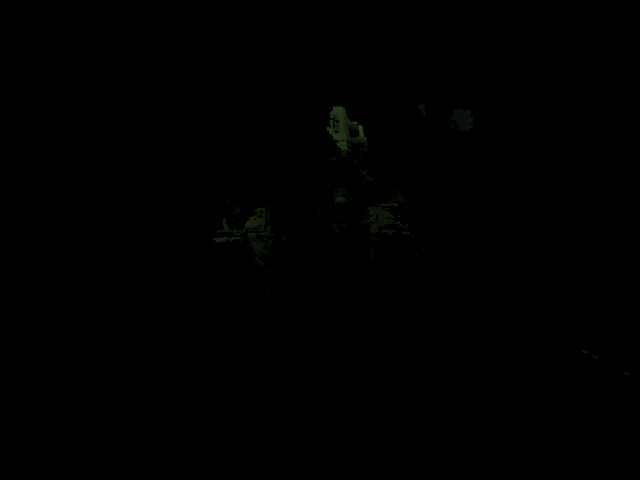
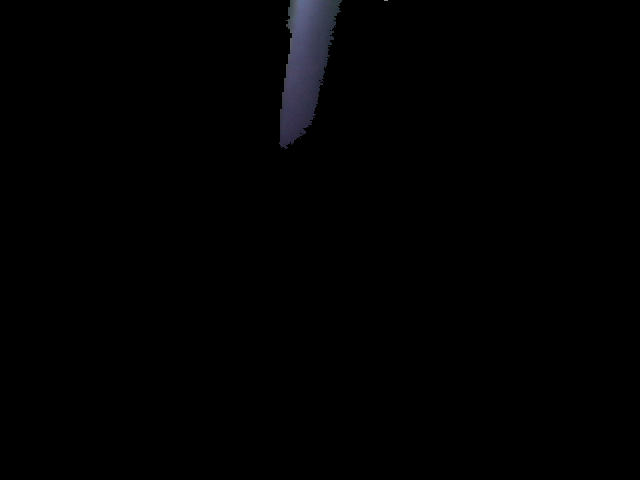
new color calibration

Changed region(s): [[0.4375, 0.0, 0.5938, 0.3125], [0.3438, 0.4375, 0.4375, 0.5]]

diff --git a/image_pipeline.py b/image_pipeline.py
@@ -3,6 +3,28 @@ import numpy as np
 import cv2
 from collections import OrderedDict
 
+a = 0
+b = 0
+c = 0
+d = 0
+e = 0
+f = 0
+def change_color_one(x):
+    global a
+    a = x
+
+def change_color_two(x):
+    global b
+    b = x
+
+def change_color_three(x):
+    global c
+    c = x
+
+def change_color_four(x):
+    global d
+    d = x
+
 def get_image():
     # Create a pipeline
     pipeline = rs.pipeline()
@@ -37,16 +59,14 @@ def get_image():
     else:
         config.enable_stream(rs.stream.color, 640, 480, rs.format.bgr8, 30)
 
+
     # Start streaming
     profile = pipeline.start(config)
-    pro = profile.get_stream(rs.stream.color)
+    pro = profile.get_stream(rs.stream.color)       
     intrinsic_param = pro.as_video_stream_profile().get_intrinsics()
 
-    # Getting the depth sensor's depth scale (see rs-align example for explanation)
     depth_sensor = profile.get_device().first_depth_sensor()
     depth_scale = depth_sensor.get_depth_scale()
-    print("Depth Scale is: " , depth_scale)
-
     # We will be removing the background of objects more than
     #  clipping_distance_in_meters meters away
     clipping_distance_in_meters = 0.3 #1 meter
@@ -76,45 +96,41 @@ def get_image():
     grey_color = 153
     depth_image_3d = np.dstack((depth_image,depth_image,depth_image)) #depth image is 1 channel, color is 3 channels
     bg_removed = np.where((depth_image_3d > clipping_distance) | (depth_image_3d <= 0), grey_color, color_image)
+
+    #cv2.imshow('img', color_image)
+    #k = cv2.waitKey(1) & 0xFF
     
-    return bg_removed, depth_image, depth_scale, intrinsic_param
+    return color_image, depth_image, depth_scale, intrinsic_param
+
 
 def thresholding(frame):
     """
-    def change_color_one(x):
-        pass
-
-    def change_color_two(x):
-        pass
-
-    def change_color_three(x):
-        pass
-    """
-
-    #cv2.namedWindow('controls')
+    cv2.namedWindow('controls')
     #create trackbar in 'controls' window with name 'r''
-    #cv2.createTrackbar('first channel','controls',0,360,change_color_one)
-    #cv2.createTrackbar('second channel','controls',0,360,change_color_two)
-    #cv2.createTrackbar('third channel','controls',0,360,change_color_three)
+    cv2.createTrackbar('first channel','controls',0,360,change_color_one)
+    cv2.createTrackbar('second channel','controls',0,360,change_color_two)
+    cv2.createTrackbar('third channel','controls',0,360,change_color_three)
+    cv2.createTrackbar('fourth channel','controls',0,360,change_color_four)
+    """
 
     # Convert BGR to HSV
     hsv = cv2.cvtColor(frame, cv2.COLOR_BGR2HSV)
-    #a = int(cv2.getTrackbarPos('first channel', 'controls'))
-    #b = int(cv2.getTrackbarPos('second channel', 'controls'))
-    #c = int(cv2.getTrackbarPos('third channel', 'controls'))
+    # a = int(cv2.getTrackbarPos('first channel', 'controls'))
+    # b = int(cv2.getTrackbarPos('second channel', 'controls'))
+    # c = int(cv2.getTrackbarPos('third channel', 'controls'))
     # define range of purple color in HSV
-    a = 134
-    b = 91
-    c = 69
-    range = 90
-    lower = np.array([a - range, b - range, c - range])
-    upper = np.array([a + range, b + range, c+range])
+    a = 152
+    b = 63
+    c = 118
+    d = 60
+    lower = np.array([a-d , b-d , c-d])
+    upper = np.array([a+d, b+d, c+d])
     # Threshold the HSV image to get only blue colors
     mask = cv2.inRange(hsv, lower, upper)
     res = cv2.bitwise_and(frame, frame, mask = mask)
     cv2.imwrite('pen_color_image.png', res)
 
-    cv2.destroyAllWindows()
+        
 
 def contour():
     img = cv2.imread('pen_color_image.png')
@@ -176,11 +192,11 @@ def pen_coordinate(depth_image, intr, cx, cy):
 if __name__ == "__main__":
     color_image, depth_image, depth_scale, intrinsic_param = get_image()
     thresholding(color_image)
-    boundary, img = contour()
-    cx, cy = centroid(img, boundary)
-    centroid_depth = depth_image[cx, cy] * depth_scale
-    pen_coord = pen_coordinate(centroid_depth, intrinsic_param, cx, cy)
-    print(pen_coord)
+    #boundary, img = contour()
+    #cx, cy = centroid(img, boundary)
+    #centroid_depth = depth_image[cx, cy] * depth_scale
+    #pen_coord = pen_coordinate(centroid_depth, intrinsic_param, cx, cy)
+    #print(pen_coord)
     # cv2.imshow('pen', boundary)
 
     

diff --git a/arm_control.py b/arm_control.py
@@ -19,13 +19,6 @@ def grasp_pen():
     centroid_depth = depth_image[cy, cx] * depth_scale
     # pen 3d coordinate
     pen_coord = pen_coordinate(centroid_depth, intrinsic_param, cx, cy)
-
-    # robot.arm.go_to_home_pose()
-    # ee pos:
-    R, ee_pos = ee_pose()
-    # convert to cam frame
-    base_frame = pen_coord + np.array([0.45, 0.3, 0])
-    gripper_pos = base_frame + ee_pos
     
     trials = 0
     alpha = 0
@@ -37,13 +30,12 @@ def grasp_pen():
         # ee pos:
         R, ee_pos = ee_pose()
         # convert to cam frame
-        base_frame = pen_coord + np.array([0.3, 0.1, 0])
+        base_frame = pen_coord + np.array([0.15, 0.1, 0])
         gripper_pos = base_frame + ee_pos
         # move in xy plane:
-        del_x = abs(pen_coord[0] - gripper_pos[0])
-        del_y = abs(pen_coord[1] - gripper_pos[1])
-        z = np.sqrt(np.power(del_x, 2) + np.power(del_y, 2))
-        alpha = 1.2*np.arcsin(del_y / z)
+        del_x = pen_coord[0] - gripper_pos[0]
+        del_y = pen_coord[1] - gripper_pos[1]
+        alpha = np.arctan(del_y / del_x)
         
         robot.arm.set_joint_positions([alpha, beta, 0, 0], moving_time=2, accel_time=2)
 
@@ -51,23 +43,24 @@ def grasp_pen():
         # ee pos:
         R, ee_pos = ee_pose()
         # convert to cam frame
-        base_frame = pen_coord + np.array([0.45, 0.3, 0])
+        base_frame = pen_coord + np.array([0.15, 0.1, 0])
         gripper_pos = base_frame + ee_pos
 
-        del_h = abs(pen_coord[2] - gripper_pos[2])
-        del_x = abs(pen_coord[0] - gripper_pos[0])
-        beta = 0.7*np.arctan(del_h/del_x)
+        del_h = pen_coord[2] - gripper_pos[2]
+        del_x = pen_coord[0] - gripper_pos[0]
+        beta = np.arctan(del_h/del_x)
 
         robot.arm.set_joint_positions([alpha, beta, 0, 0], moving_time=2, accel_time=2)
             
         trials += 1
 
+    robot.gripper.set_pressure(2.0)
     robot.gripper.grasp()
     time.sleep(2)
 
     # turn 180 degrees
     turn = 180* np.pi / 180
-    robot.arm.set_joint_positions([-turn, beta, 0, 0], moving_time=4, accel_time=4)
+    #robot.arm.set_joint_positions([-turn, beta, 0, 0], moving_time=4, accel_time=4)
     time.sleep(2)
 
     robot.arm.go_to_sleep_pose()

diff --git a/test.py b/test.py
@@ -8,4 +8,5 @@ import modern_robotics as mr
 robot = InterbotixManipulatorXS("px100", "arm", "gripper")
 if __name__ == "__main__":
     robot.arm.go_to_home_pose()
-    robot.arm.set_joint_positions([3.14,0,0,0], moving_time=2, accel_time=2)
+    robot.arm.set_joint_positions([0,0.5,0,0], moving_time=2, accel_time=2)
+    robot.arm.go_to_sleep_pose()
